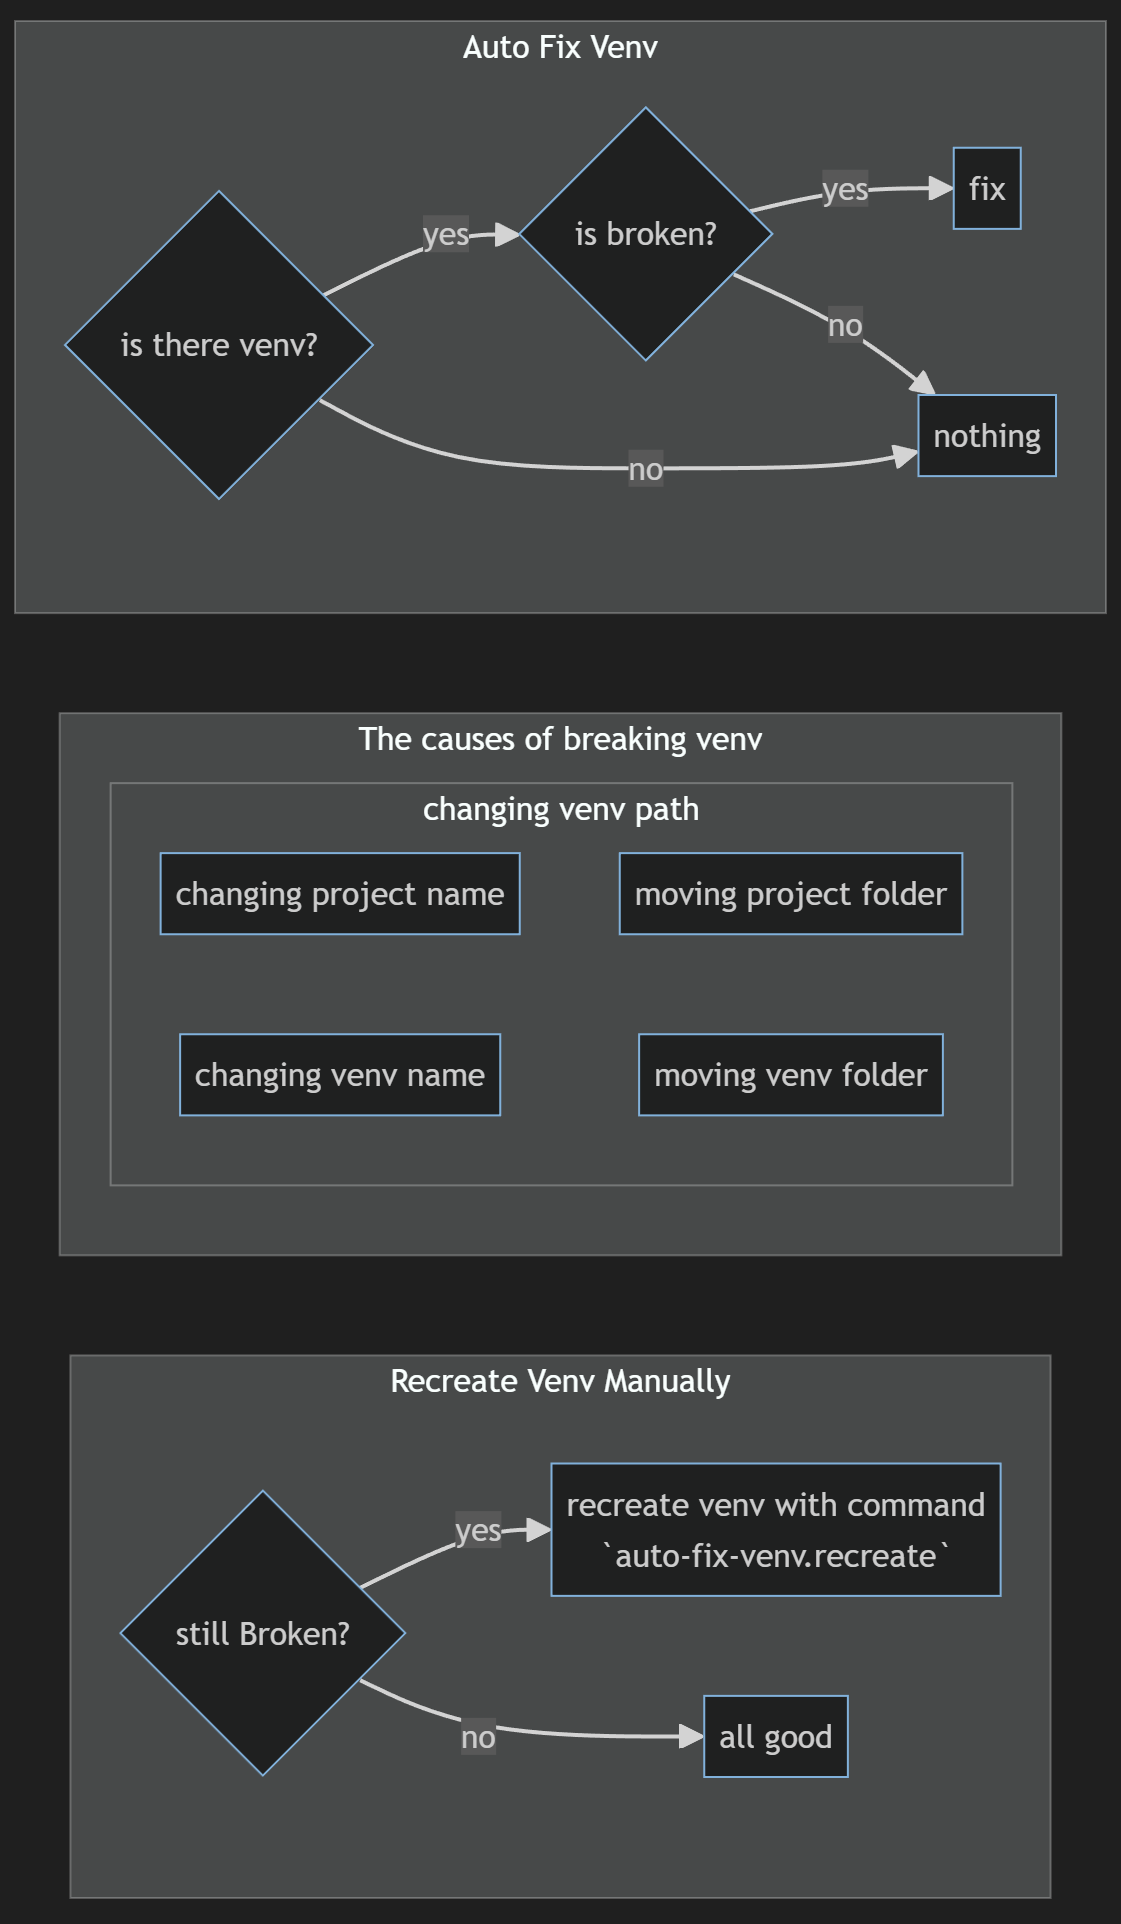
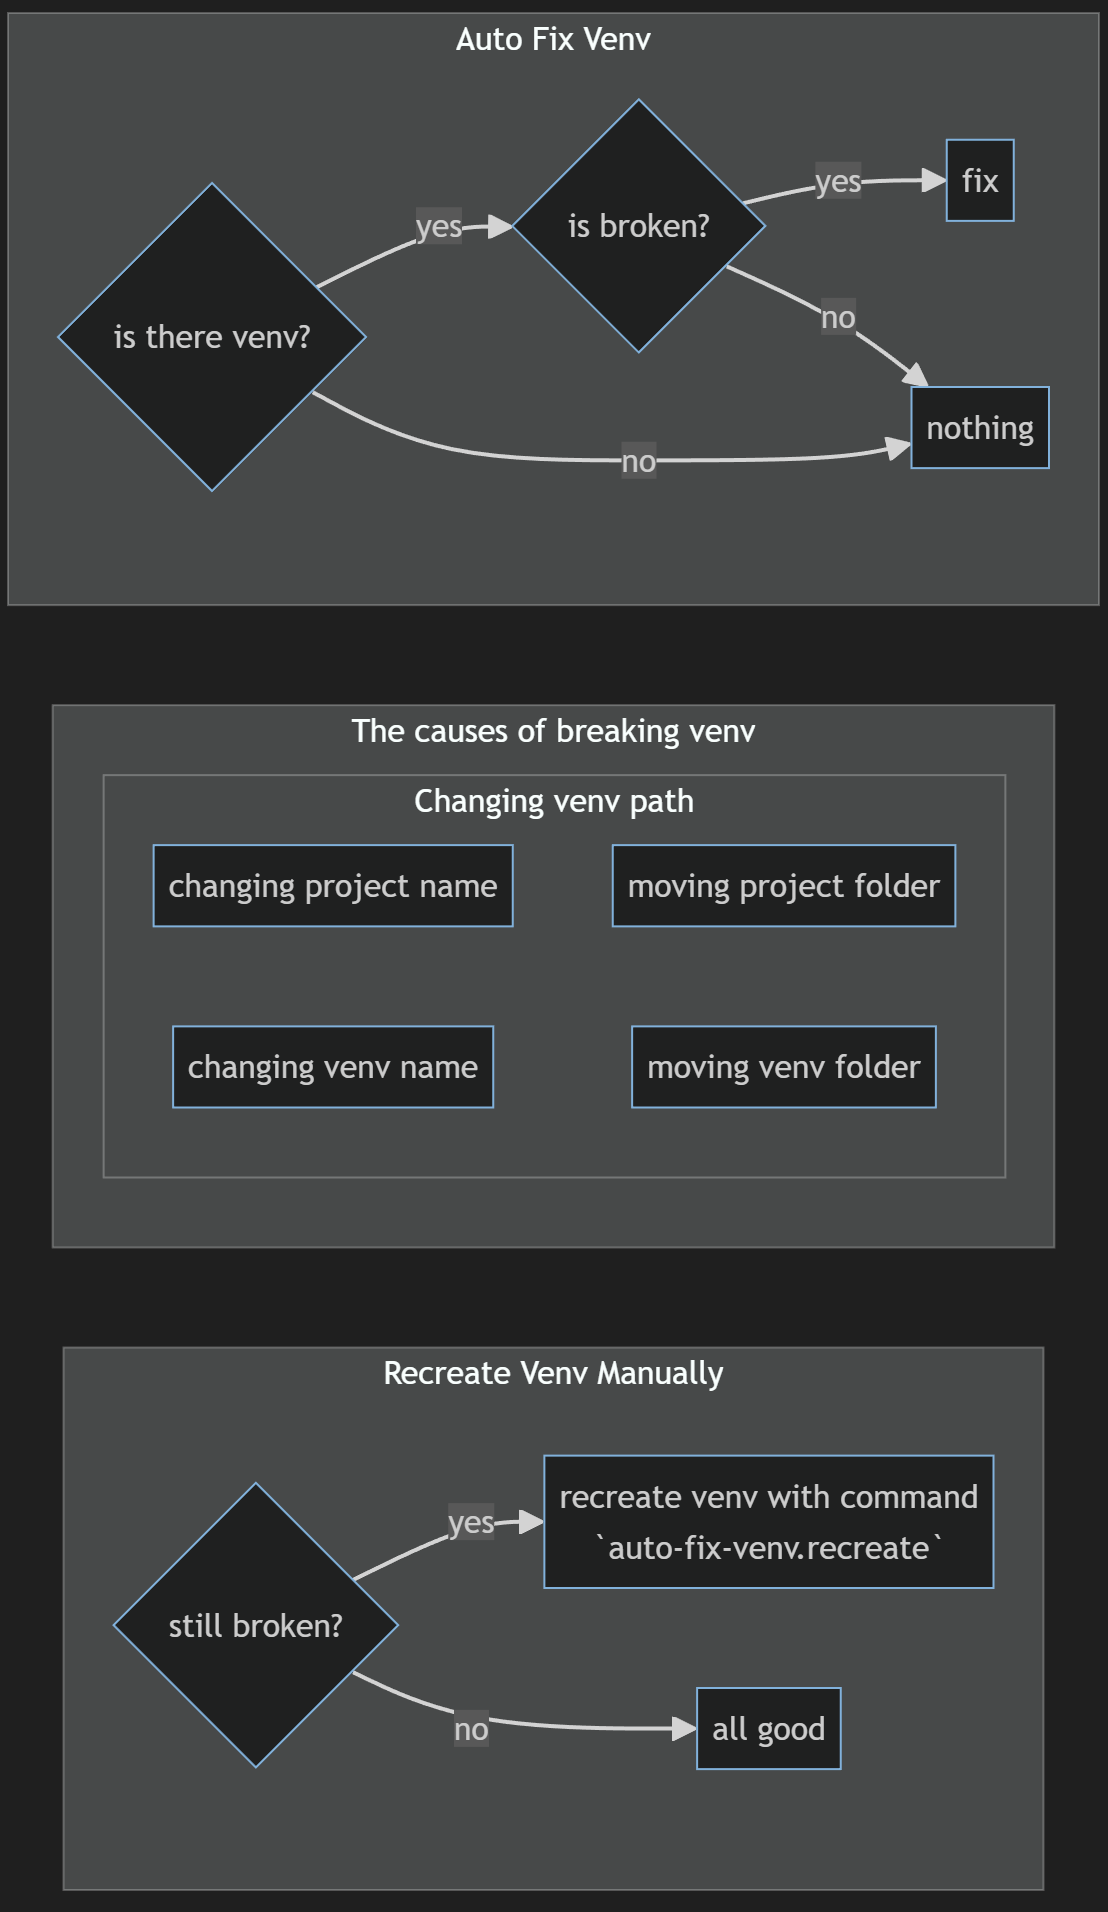
chore: fix misspell in README

diff --git a/docs/flowchart.md b/docs/flowchart.md
@@ -12,7 +12,7 @@
         end
 
         subgraph Causes[The causes of breaking venv]
-            subgraph ChangeVenvPath[changing venv path]
+            subgraph ChangeVenvPath[Changing venv path]
                 direction LR
                 1[changing project name]
                 2[moving project folder]
@@ -20,13 +20,12 @@
                 4[moving venv folder]
                 1 ~~~ 2
                 3 ~~~ 4
-
             end
         end
 
         subgraph RecreateVenv[Recreate Venv Manually]
             direction LR
-            stillBroken{still Broken?}
+            stillBroken{still broken?}
             stillBroken -- yes --> recreate[recreate venv with command\n`auto-fix-venv.recreate`]
             stillBroken -- no --> allGood[all good]
         end

diff --git a/README.md b/README.md
@@ -1,14 +1,11 @@
-# Auto Fix Venv
+# Auto Fix Venv
 
 Automatically detect broken python venv and fix it.
+(Currently detect only venv named `.venv`)
 (Currently works only in windows)
 
+
 ![flowchart](docs/flowchart.png)
-
-<!-- # Feature
-
-- Automatically detect broken venv and fix it.
-- Recreate venv with command `auto-fix-venv.recreate` when auto-fix not working. -->
 
 # Keybindings
 
@@ -16,4 +13,4 @@ Nothing
 
 # Extension Settings
 
-Nothing
+Coming soon
